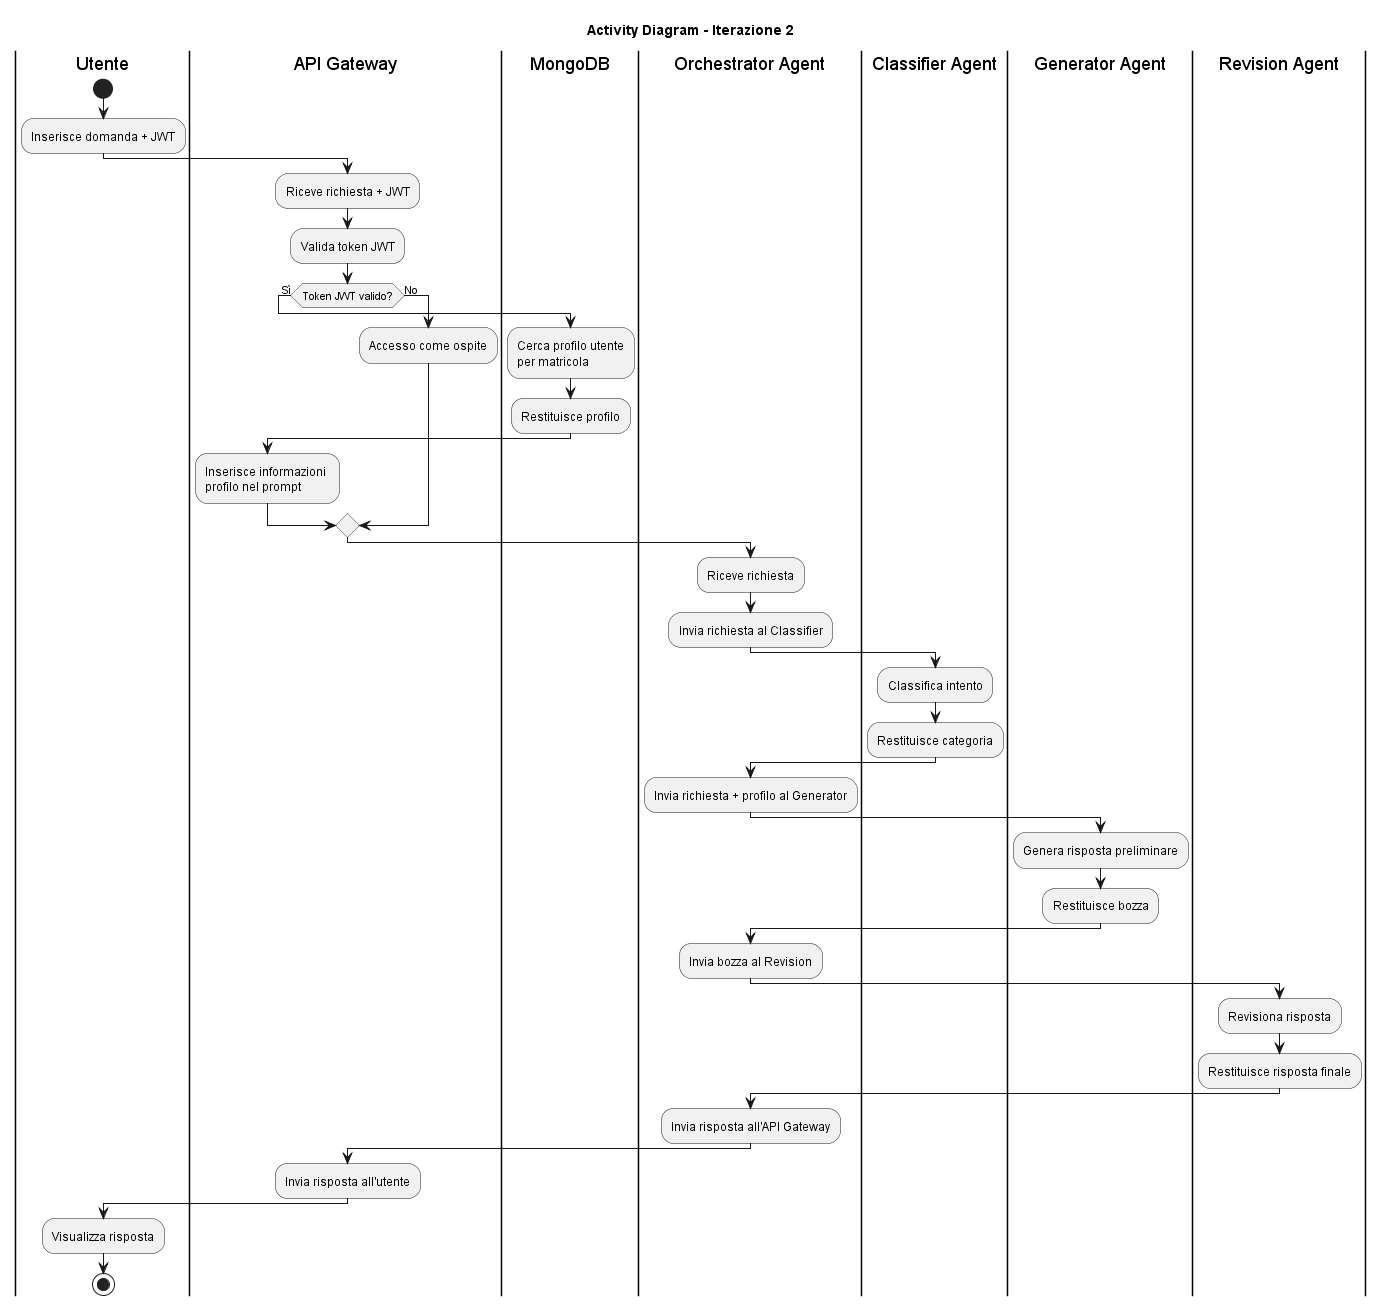
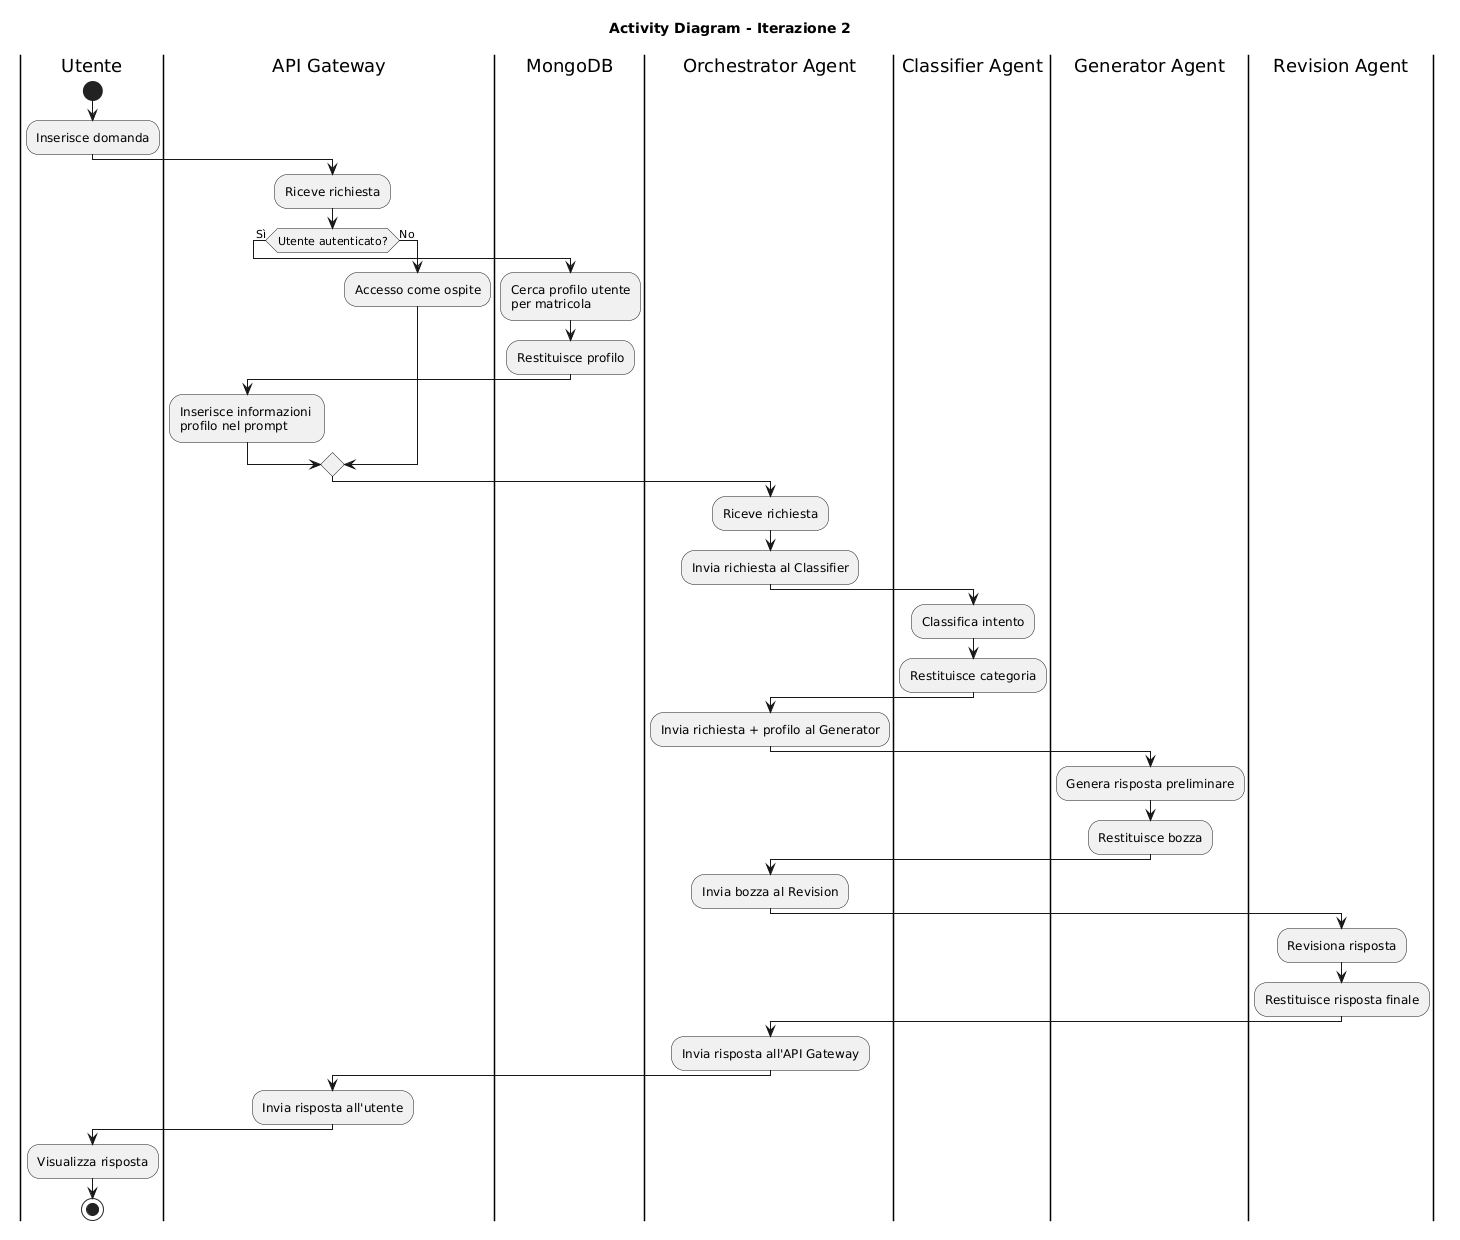
Removed jwt references from iteration 2

diff --git a/documentazione/design_iterazione2.md b/documentazione/design_iterazione2.md
@@ -2,19 +2,19 @@
 
 ## 1. Obiettivo dell'iterazione
 
-Implementare il sistema di autenticazione (registrazione e login con JWT httpOnly cookie) e integrare le informazioni del profilo utente nell'`AgentState` per personalizzare le risposte degli agenti. Non è prevista memoria conversazionale in questa iterazione.
+Implementare il sistema di autenticazione (registrazione e login con bcrypt) e integrare le informazioni del profilo utente nell'`AgentState` per personalizzare le risposte degli agenti. Non è prevista memoria conversazionale in questa iterazione.
 
 ---
 
-## 2. Algoritmo 1: Autenticazione con JWT e bcrypt (AuthService)
+## 2. Algoritmo 1: Autenticazione con bcrypt (AuthService)
 
 ### 2.1 Descrizione
 
-Il flusso di autenticazione implementa un pattern **stateless authentication** con JSON Web Token memorizzato in un httpOnly cookie. La password è protetta con hashing bcrypt (cost factor = 12 round di default). Il flusso è:
+Il flusso di autenticazione implementa la verifica delle credenziali con hashing bcrypt (cost factor = 12 round di default). La password è protetta con hashing bcrypt. Il flusso è:
 1. L'utente invia matricola + password
 2. Il server cerca l'utente in MongoDB
 3. Verifica la password con `bcrypt.checkpw()`
-4. Se valida, genera un JWT e lo imposta come httpOnly cookie
+4. Se valida, restituisce il profilo dello studente
 
 ### 2.2 Pseudocodice
 
@@ -22,7 +22,7 @@ Il flusso di autenticazione implementa un pattern **stateless authentication** c
 ALGORITHM Authenticate(matricola, password)
 
 INPUT:  matricola (stringa), password (stringa)
-OUTPUT: {student, token} oppure HTTPException 401
+OUTPUT: {student} oppure HTTPException 401
 
 1.  // Lookup utente nel database
     student ← ProfileRepository.findById(matricola)
@@ -36,29 +36,14 @@ OUTPUT: {student, token} oppure HTTPException 401
     IF NOT is_valid:
         RAISE HTTPException(401, "Password errata")
 
-3.  // Genera JWT token
-    payload ← { matricola: student.matricola, status: "loggato" }
-    expire  ← NOW() + EXPIRE_MINUTES
-    payload.exp ← expire
-    token ← jwt.encode(payload, SECRET_KEY, algorithm="HS256")
-
-4.  // Imposta il cookie httpOnly nella response HTTP
-    response.set_cookie(
-        key="access_token",
-        value=token,
-        httponly=True,
-        samesite="lax",
-        max_age=COOKIE_MAX_AGE
-    )
-
-5.  RETURN { student: student, token: token }
+3.  RETURN { student: student }
 ```
 
 ```
 ALGORITHM Register(name, surname, matricola, password, department, course, tipology, year)
 
 INPUT:  dati di registrazione completi
-OUTPUT: {student, token} oppure HTTPException 409
+OUTPUT: {student} oppure HTTPException 409
 
 1.  // Verifica unicità matricola
     IF ProfileRepository.exists(matricola):
@@ -76,11 +61,7 @@ OUTPUT: {student, token} oppure HTTPException 409
     }
     saved ← ProfileRepository.save(student_doc)
 
-4.  // Genera JWT e imposta cookie
-    token ← JWTManager.generateToken({matricola, status: "loggato"})
-    response.set_cookie(...)
-
-5.  RETURN { student: saved, token: token }
+4.  RETURN { student: saved }
 ```
 
 ### 2.3 Analisi di Complessità
@@ -94,7 +75,6 @@ Sia:
 | `findById(matricola)` — lookup per chiave indexed | $O(D)$ — $O(\log N)$ su B-tree MongoDB |
 | `bcrypt.checkpw()` — verifica hash | $O(B)$ — costante, ~100ms |
 | `bcrypt.hashpw()` — generazione hash (solo registrazione) | $O(B)$ — costante, ~100ms |
-| `jwt.encode()` — firma HMAC-SHA256 | $O(1)$ — operazione crittografica costante |
 | `exists()` — lookup per chiave | $O(D)$ — $O(\log N)$ |
 | `save()` — insert in MongoDB | $O(D)$ |
 | **Totale Login** | $O(D + B)$ |
@@ -102,7 +82,7 @@ Sia:
 
 **Nota di sicurezza**: il costo $O(B)$ di bcrypt è intenzionalmente elevato (design by intent) per resistere ad attacchi brute-force. Con cost factor 12, ogni verifica richiede ~100ms, rendendo impraticabile un attacco a forza bruta online.
 
-**Complessità spaziale**: $O(1)$ — solo il documento utente e il token JWT vengono mantenuti in memoria.
+**Complessità spaziale**: $O(1)$ — solo il documento utente viene mantenuto in memoria.
 
 ---
 
@@ -153,12 +133,10 @@ La funzione è puramente computazionale e a costo costante. Viene chiamata una v
 ### Pattern architetturale: Controller → Service → Repository
 
 ```
-AuthController (HTTP layer, cookie management)
+AuthController (HTTP layer)
     └──→ AuthService (business logic, bcrypt, validation)
             └──→ ProfileRepository (MongoDB persistence)
                     └──→ AsyncIOMotorCollection (driver MongoDB)
-
-JWTManager (token generation/validation, cross-cutting)
 ```
 
 ### Flusso dati per l'integrazione con gli agenti

diff --git a/iterazioni/iterazione2/Iterazione2.md b/iterazioni/iterazione2/Iterazione2.md
@@ -46,16 +46,13 @@ Data Tier           →   MongoDB Atlas (Motor async)
 | `Web / Mobile App` | React + Vite | Interfaccia login e chat |
 | `API Gateway` (FastAPI) | Python / uvicorn | Routing HTTP, CORS, endpoint REST |
 | `Auth Controller` | FastAPI routes | Gestione `/api/auth/login` e `/api/auth/register` |
-| `Auth Service` (implicito) | bcrypt | Hashing e verifica password |
-| `JWT Manager` | (non presente in iter. 2 – rimandato) | — |
+| `Auth Service` | bcrypt | Hashing e verifica password |
 | `OrchestratorAgent` | LangGraph | Coordinamento pipeline classify → generate → revise |
 | `ClassifierAgent` | LangChain + Groq | Classificazione intento della query |
 | `GeneratorAgent` | LangChain + Groq | Generazione risposta contestualizzata |
 | `RevisionAgent` | LangChain + Groq | Revisione e raffinamento risposta |
 | `ProfileRepository` | Motor / MongoDB | Persistenza e recupero profilo studente |
 | `MongoDB` | MongoDB Atlas | Storage documenti utente |
-
-> **Nota**: il JWT Manager è presente nel class diagram e nel component diagram come componente progettato, ma la sua implementazione (token stateless) è pianificata per una iterazione successiva. In questa iterazione il login restituisce direttamente i dati del profilo, e il frontend li gestisce in memoria.
 
 ---
 
@@ -201,7 +198,6 @@ Il backend utilizza `uvicorn` con `motor` per la connessione asincrona a MongoDB
 
 ## 11. Limitazioni dell'Iterazione 2
 
-- **JWT non implementato**: il token di sessione non è ancora presente; il profilo è mantenuto lato frontend in memoria. Previsto nelle iterazioni successive.
 - **Nessun accesso a dati reali UniBG**: le risposte sono generate dall'LLM senza recupero da fonti strutturate (orari, corsi, documenti ufficiali).
 - **Conversation history in memoria**: la cronologia delle conversazioni non è persistita su MongoDB ma mantenuta nell'istanza dell'`OrchestratorAgent`.
 
@@ -215,10 +211,10 @@ Tutti i diagrammi sono in formato PlantUML (`.puml`).
 |---|---|---|
 | Use Case | `usecase_diagram2.puml` | Casi d'uso: registrazione, login, query, risposta personalizzata |
 | Activity | `activity_diagram2.puml` | Flusso attività della pipeline classify → generate → revise |
-| Sequence | `sequence_diagram2.puml` | Processo di login: Frontend → Gateway → Auth → MongoDB → JWT |
+| Sequence | `sequence_diagram2.puml` | Processo di login: Frontend → Gateway → Auth → MongoDB |
 | Class | `class_diagram2.puml` | Diagramma classi completo (Auth Layer + Agent Layer + modelli) |
 | Component (Overview) | `component_diagram2.puml` | Architettura a 3 tier con porte e interfacce cross-tier |
-| Component (Auth Layer) | `component2_auth.puml` | Dettaglio Authentication Layer: AuthCtrl → AuthSvc → JWT |
+| Component (Auth Layer) | `component2_auth.puml` | Dettaglio Authentication Layer: AuthCtrl → AuthSvc |
 | Component (Agent Layer) | `component2_agents.puml` | Dettaglio Agent Layer: Orchestrator → Classifier, Generator, Revision |
 
 ---
@@ -234,6 +230,5 @@ Tutti i diagrammi sono in formato PlantUML (`.puml`).
 | Persistenza su MongoDB Atlas | ✅ Completato |
 | Frontend React con login e chat | ✅ Completato |
 | Containerizzazione Docker + Docker Compose | ✅ Completato |
-| JWT stateless per sessioni | ⏳ Rimandato |
 | Accesso a dati reali UniBG | ⏳ Rimandato |
 | Persistenza cronologia conversazioni | ⏳ Rimandato |
